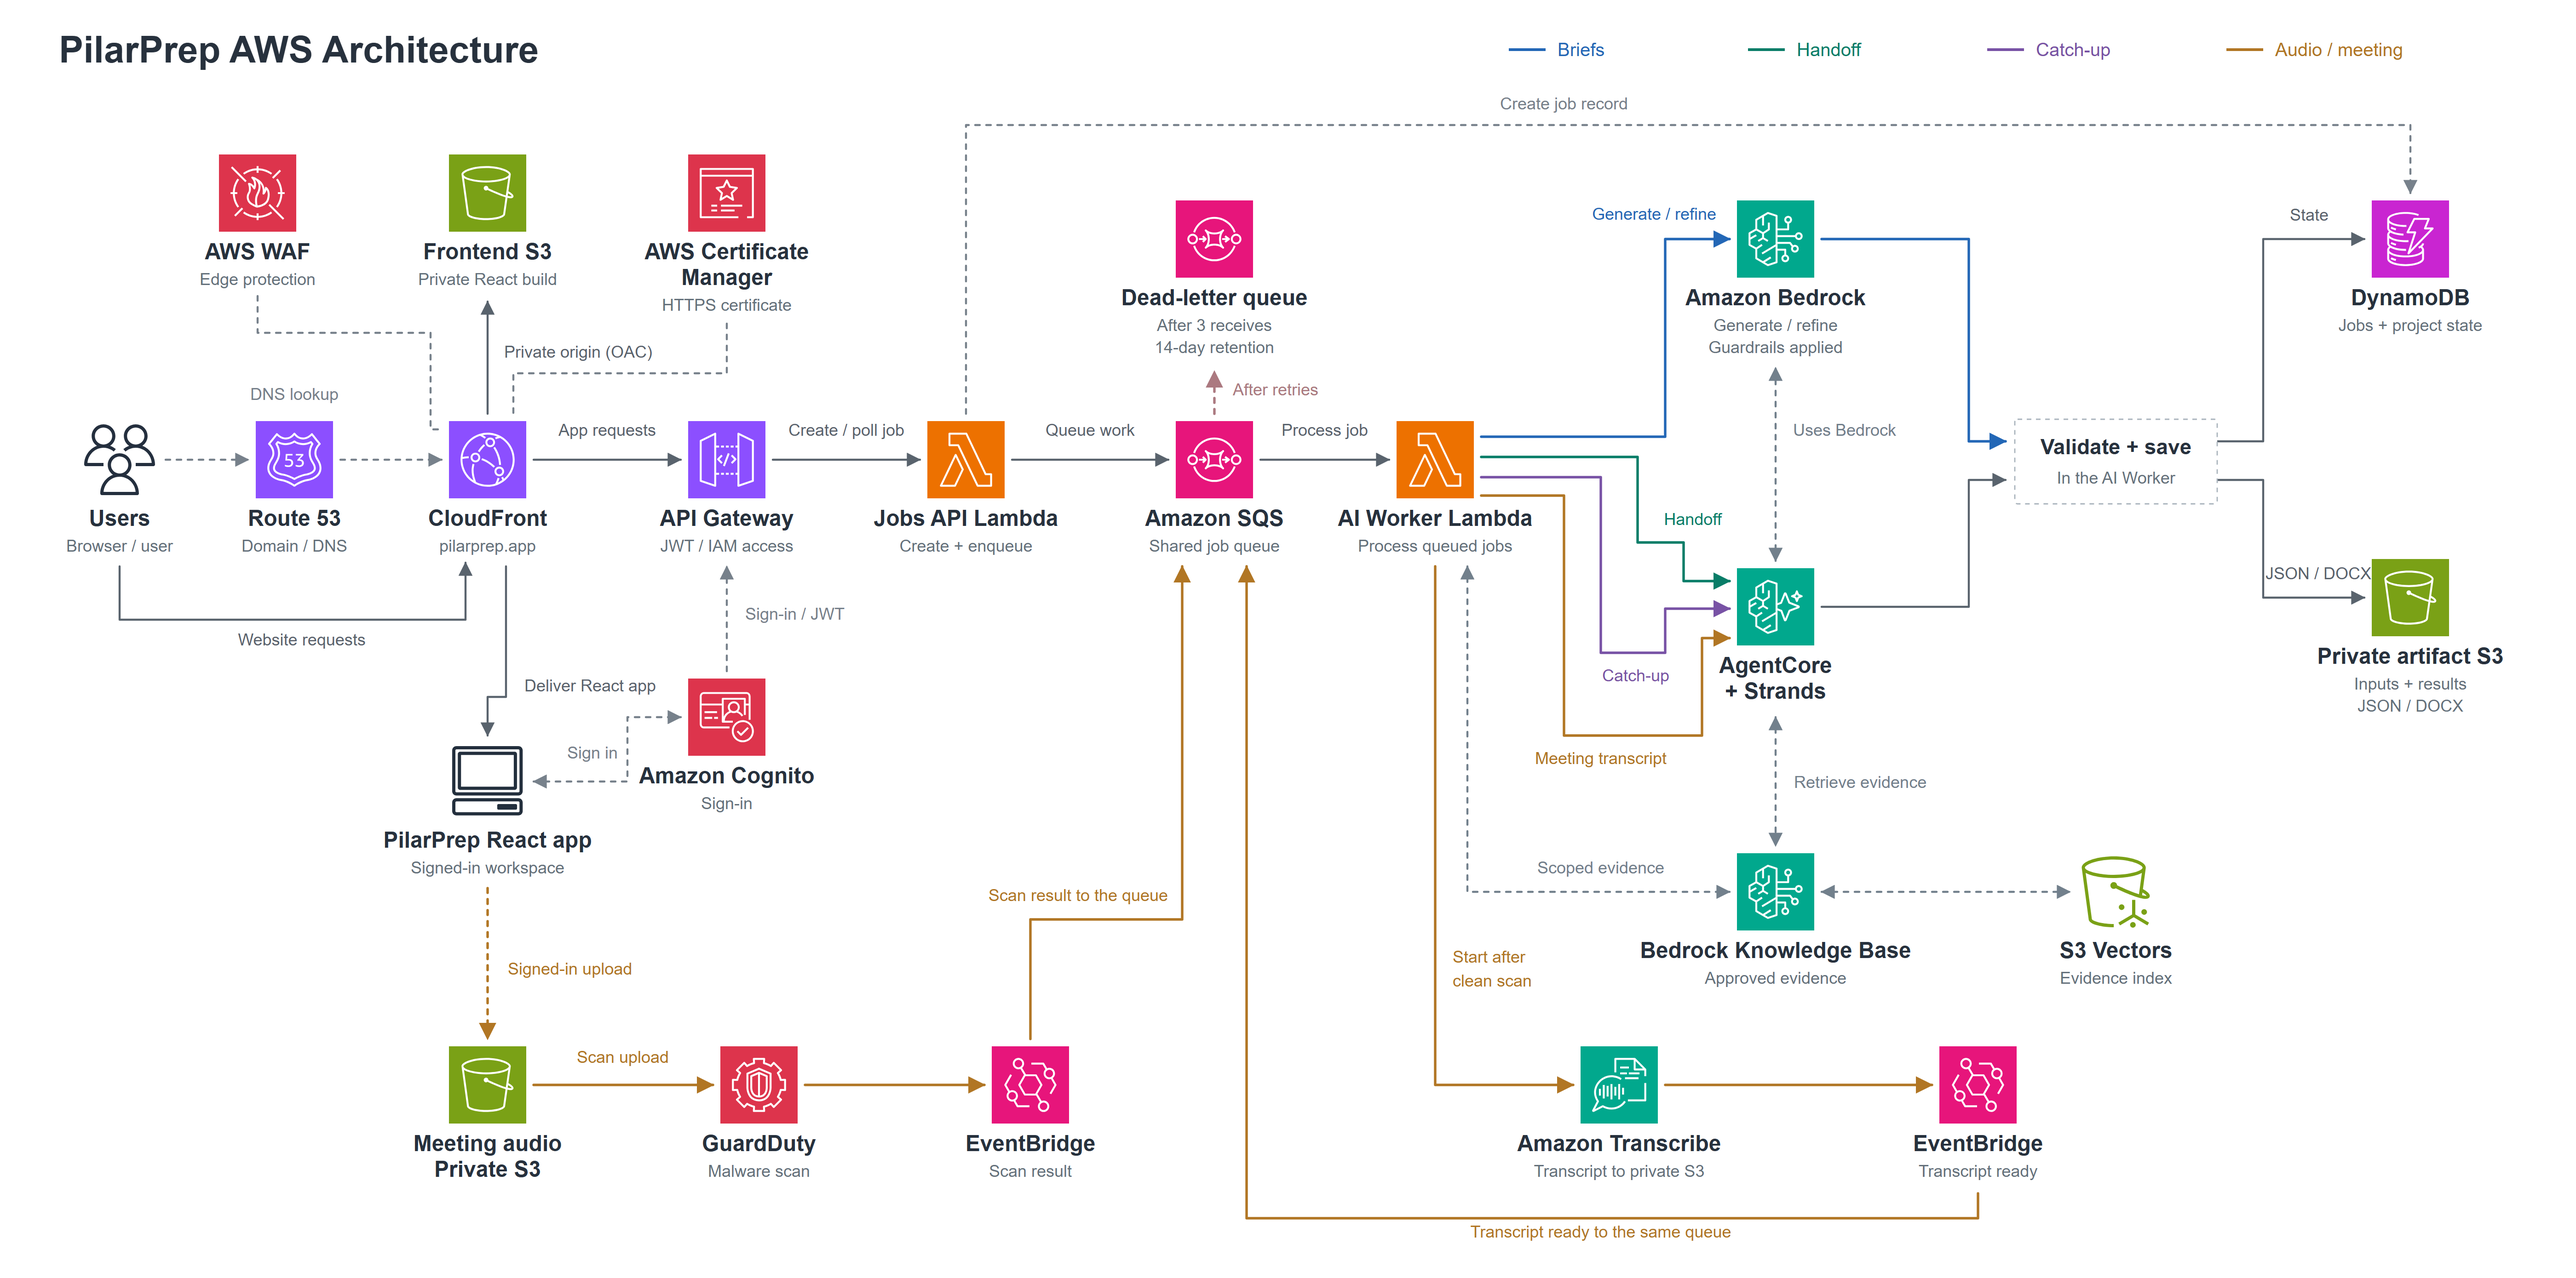
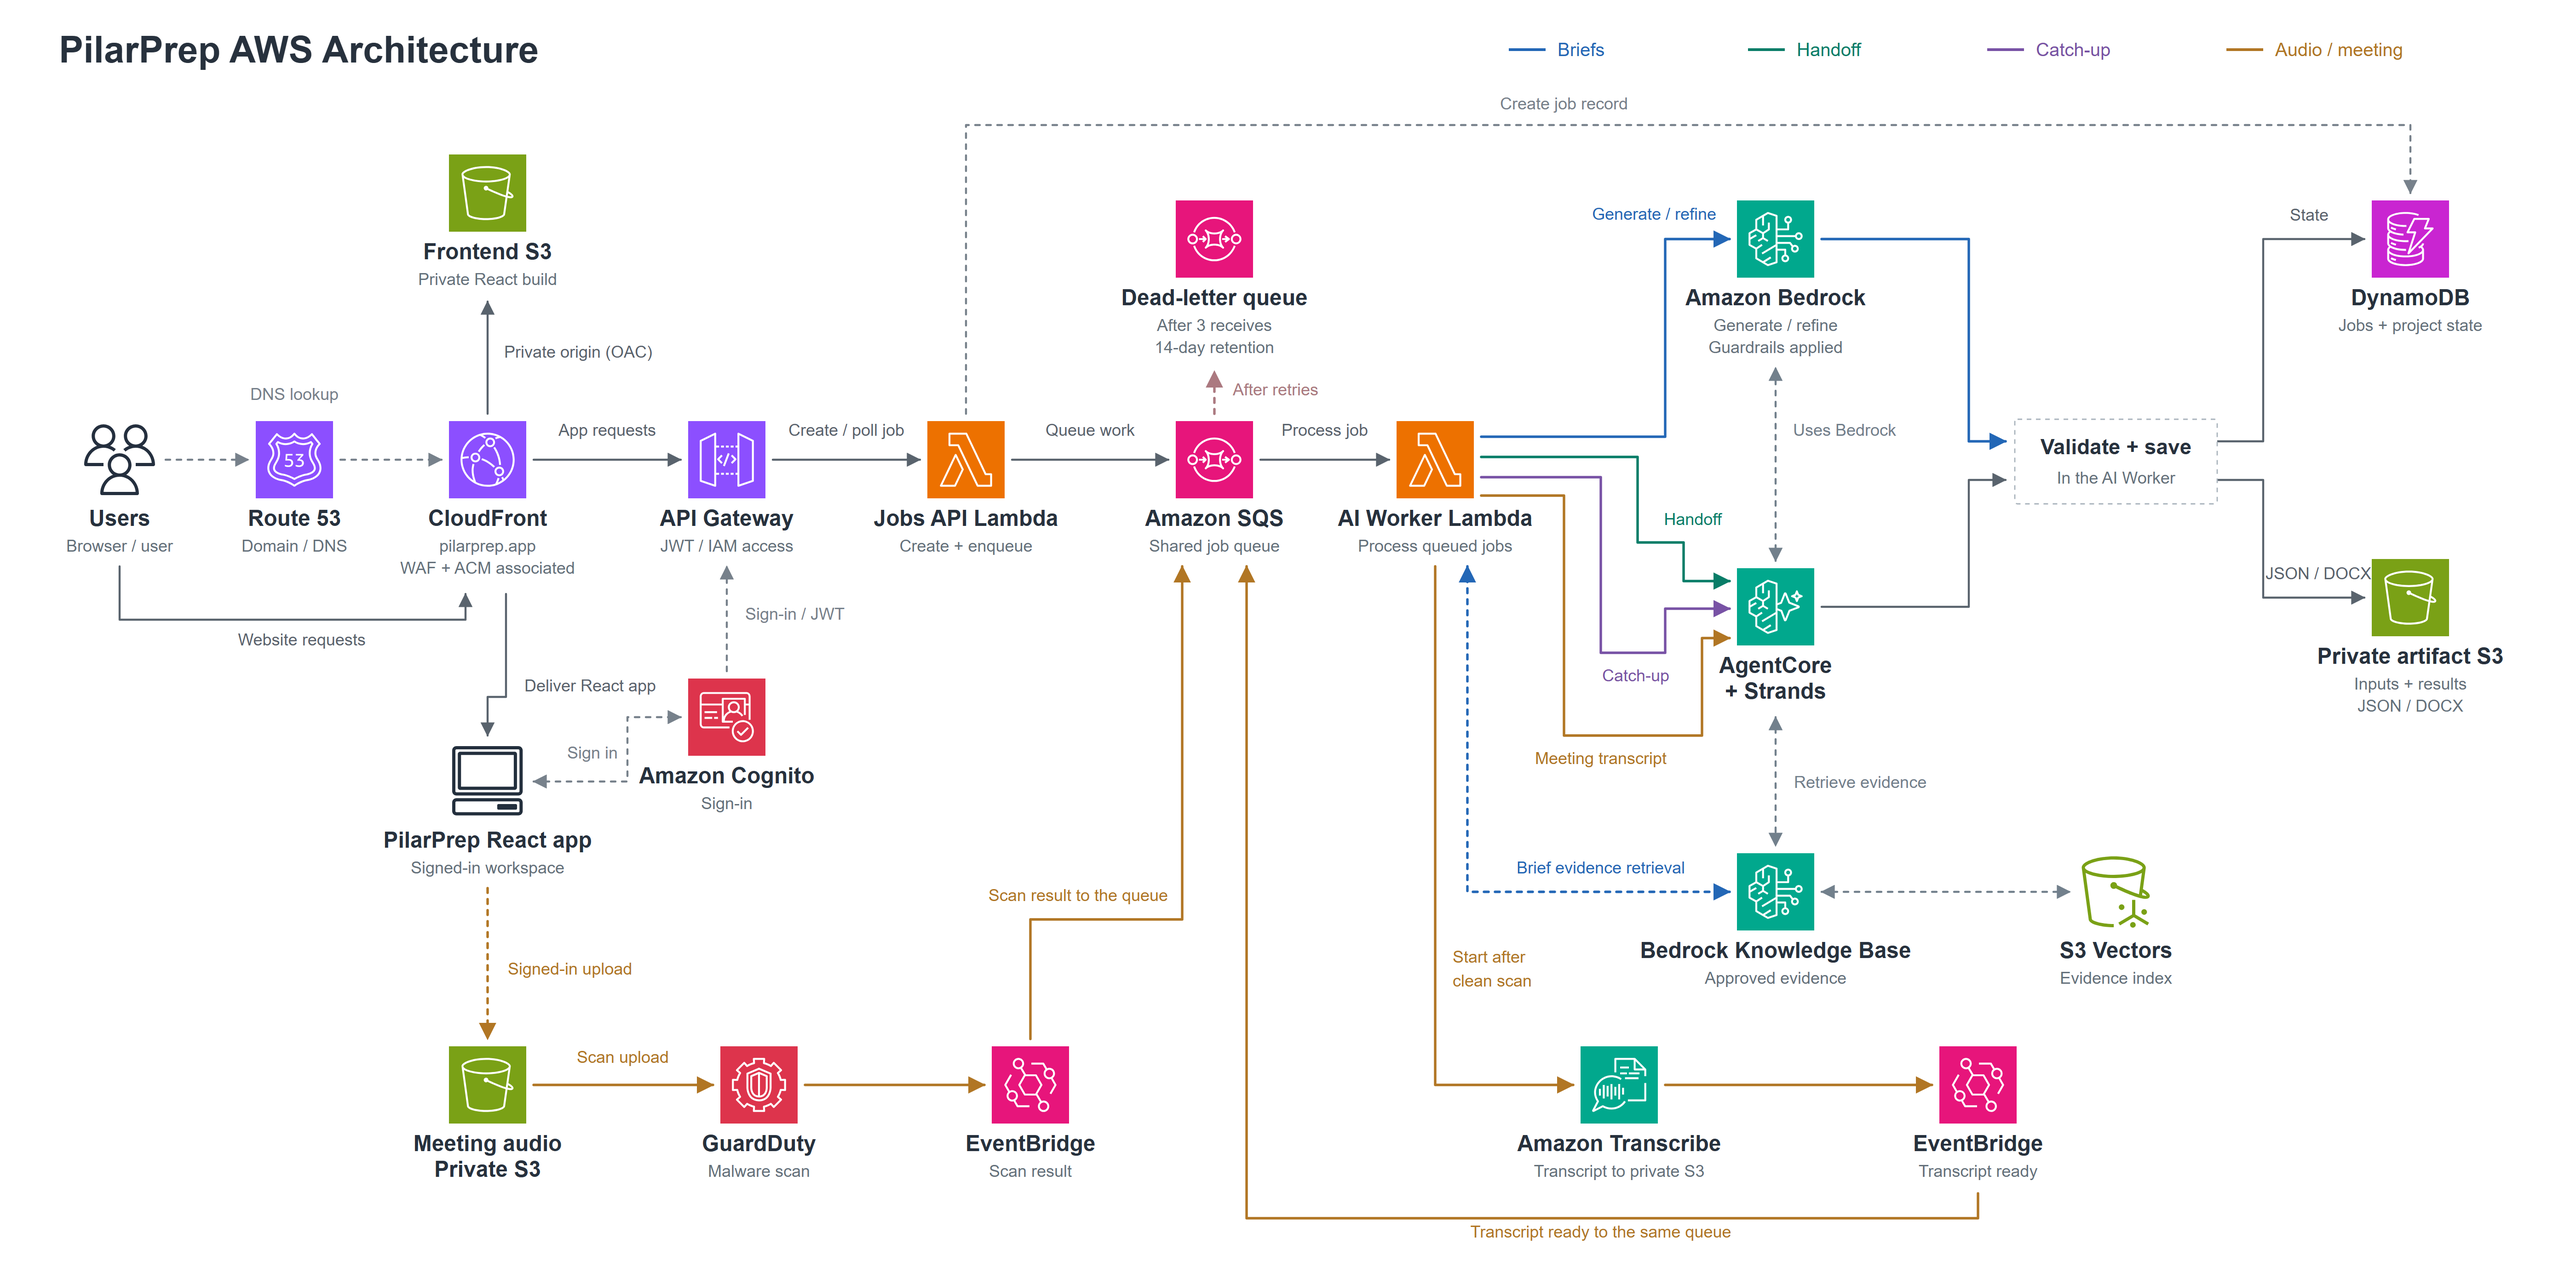
Clarify brief evidence route and simplify CloudFront diagram

diff --git a/docs/architecture/code-map.md b/docs/architecture/code-map.md
@@ -7,8 +7,8 @@ Use the same labels as the [architecture diagram](pilarprep-aws-architecture.png
 | PilarPrep React app | [App](../../frontend/src/App.tsx), [browser clients](../../frontend/src/lib/) | [Frontend](../../infrastructure/frontend.yaml) |
 | Route 53 | DNS lookup only; no application handler | Live `pilarprep.app` public hosted zone with A/AAAA aliases to CloudFront; DNS is configured separately from the [frontend template](../../infrastructure/frontend.yaml), as described in [deployment](../../DEPLOYMENT.md) |
 | CloudFront and frontend S3 | [Browser entry](../../frontend/src/main.tsx), [build](../../vite.config.ts) | [Frontend](../../infrastructure/frontend.yaml) |
-| AWS Certificate Manager | HTTPS certificate; no application handler | Existing ACM certificate supplied through `AcmCertificateArn` in the [frontend template](../../infrastructure/frontend.yaml) |
-| AWS WAF | Edge protection; no separate application handler | [CloudFront Web ACL association and optional managed ACL](../../infrastructure/frontend.yaml) |
+| AWS Certificate Manager (collapsed into CloudFront annotation) | HTTPS certificate; no application handler | Existing ACM certificate supplied through `AcmCertificateArn` in the [frontend template](../../infrastructure/frontend.yaml) |
+| AWS WAF (collapsed into CloudFront annotation) | Edge protection; no separate application handler | [CloudFront Web ACL association and optional managed ACL](../../infrastructure/frontend.yaml) |
 | Cognito | [Workspace authentication](../../frontend/src/lib/cognito-auth.ts), [guest signing](../../frontend/src/lib/aws-sigv4.ts), [server scope](../../backend/pipeline/state.py) | [Jobs pipeline](../../infrastructure/jobs-pipeline.yaml), [core Bedrock stack](../../infrastructure/bedrock.yaml) |
 | API Gateway | [Jobs API routing](../../backend/jobs_api/handler.py) | [Jobs pipeline](../../infrastructure/jobs-pipeline.yaml) |
 | Jobs API Lambda | [jobs_api/handler.py](../../backend/jobs_api/handler.py) | `JobsApiFunction` in [jobs-pipeline.yaml](../../infrastructure/jobs-pipeline.yaml) |
@@ -33,6 +33,10 @@ Use the same labels as the [architecture diagram](pilarprep-aws-architecture.png
 | Secrets Manager and IAM (not expanded in the diagram) | [Application scope](../../backend/pipeline/state.py), [agent scope validation](../../backend/agentcore/common/security.py) | [API-origin secret and service roles](../../infrastructure/jobs-pipeline.yaml), [scope secret and agent roles](../../infrastructure/agentcore.yaml) |
 
 ## Follow One Request
+
+The blue dashed **Brief evidence retrieval** connection represents the AI Worker retrieving approved customer evidence before generating or refining a brief. The neutral dashed AgentCore connection serves handoff, catch-up, and meeting analysis. Both use the Knowledge Base, but the application chooses the retrieval path by action.
+
+WAF and ACM are separate AWS services associated with CloudFront, not built-in components. Their individual icons are omitted only to simplify this view; their configuration remains unchanged. See AWS documentation for [WAF association](https://docs.aws.amazon.com/waf/latest/developerguide/web-acl-associating-aws-resource.html) and [ACM certificates with CloudFront](https://docs.aws.amazon.com/AmazonCloudFront/latest/DeveloperGuide/cnames-and-https-requirements.html).
 
 Start with `requestPipelineJob` in the React app. Follow `handler` in the Jobs API, then `handler` in the AI Worker. From there choose the Bedrock generator or AgentCore runtime. Shared job state is in `pipeline/state.py`; audio is in `pipeline/meeting.py`.
 

diff --git a/README.md b/README.md
@@ -28,7 +28,7 @@ The React app runs in the browser. CloudFront serves it from private S3 and prox
 
 The two audio events return to the same queue: first the malware-scan result, then the transcription result. "Validate + save" is code inside the AI Worker, not an extra deployed Lambda.
 
-The diagram also shows Route 53 DNS, the ACM certificate, WAF edge protection, and the SQS dead-letter queue. Shared monitoring, alerting, encryption, and secret-management services remain configured but are omitted from this view. Route 53 resolves `pilarprep.app` to CloudFront; its dashed DNS connection is separate from the solid application request path. The service-flow view uses official AWS icons and does not imply a VPC or private-subnet deployment. AgentCore internals remain collapsed so tools and memory do not distract from the main routes. Meeting interpretation and packet corrections use Bedrock through Strands; customer context is not PII-screened or redacted by Comprehend.
+The diagram also shows Route 53 DNS and the SQS dead-letter queue. AWS WAF and ACM remain separate services associated with CloudFront; their icons are collapsed into its annotation for readability. The blue dashed evidence connection belongs to brief generation and refinement in the AI Worker; AgentCore's shared evidence connection stays neutral. Shared monitoring, alerting, encryption, and secret-management services remain configured but are omitted from this view. Route 53 resolves `pilarprep.app` to CloudFront; its dashed DNS connection is separate from the solid application request path. The service-flow view uses official AWS icons and does not imply a VPC or private-subnet deployment. AgentCore internals remain collapsed so tools and memory do not distract from the main routes. Meeting interpretation and packet corrections use Bedrock through Strands; customer context is not PII-screened or redacted by Comprehend.
 
 See [Architecture](ARCHITECTURE.md) for the request flows and current tradeoffs. The [code map](docs/architecture/code-map.md) connects every diagram box to its implementation or infrastructure definition.
 
